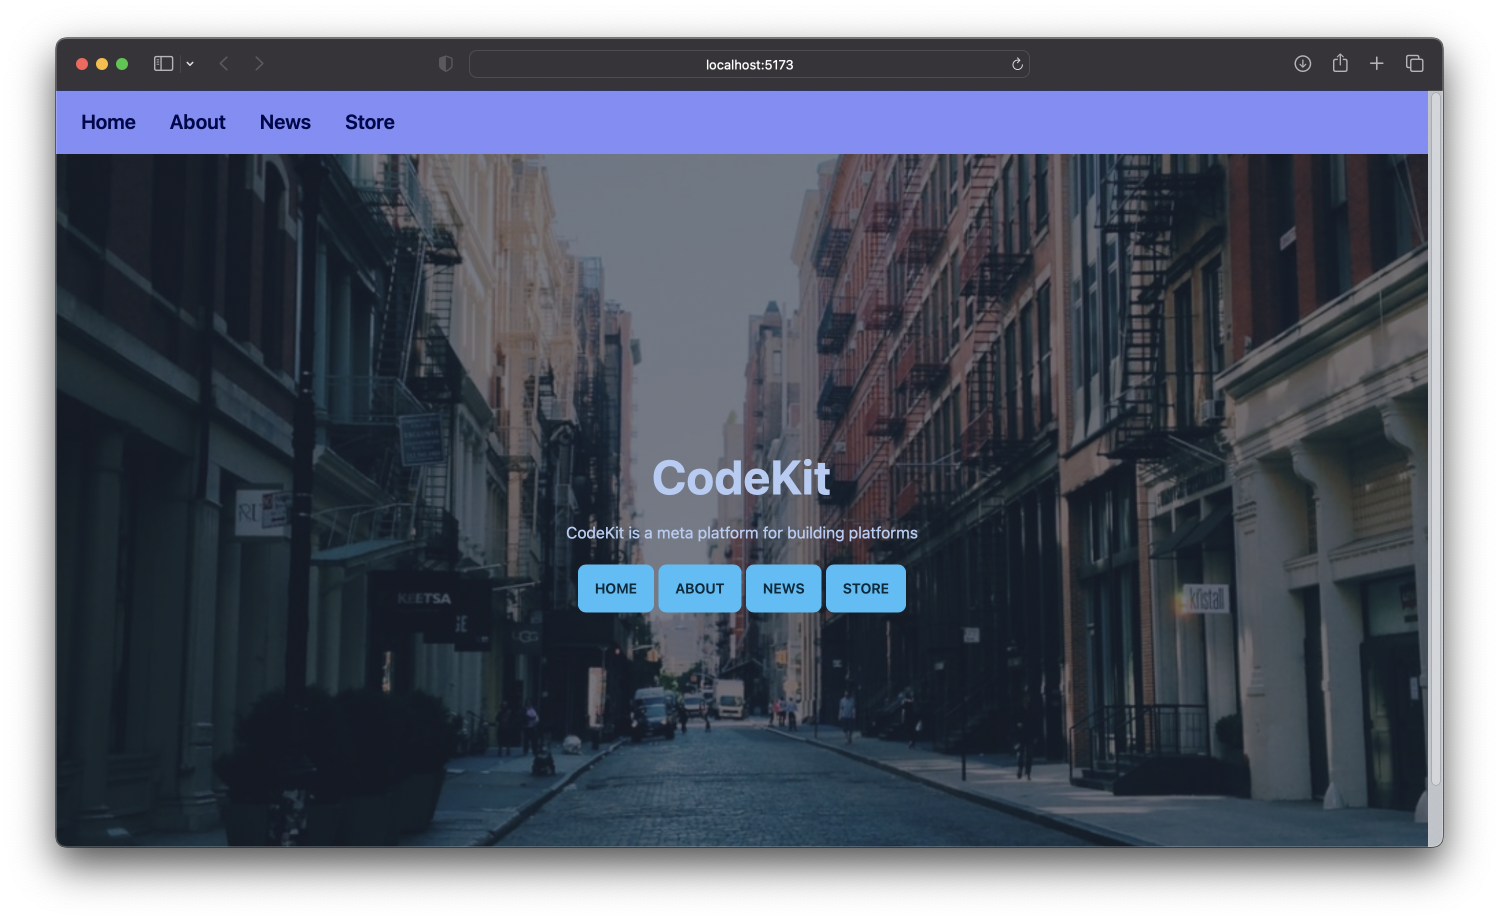
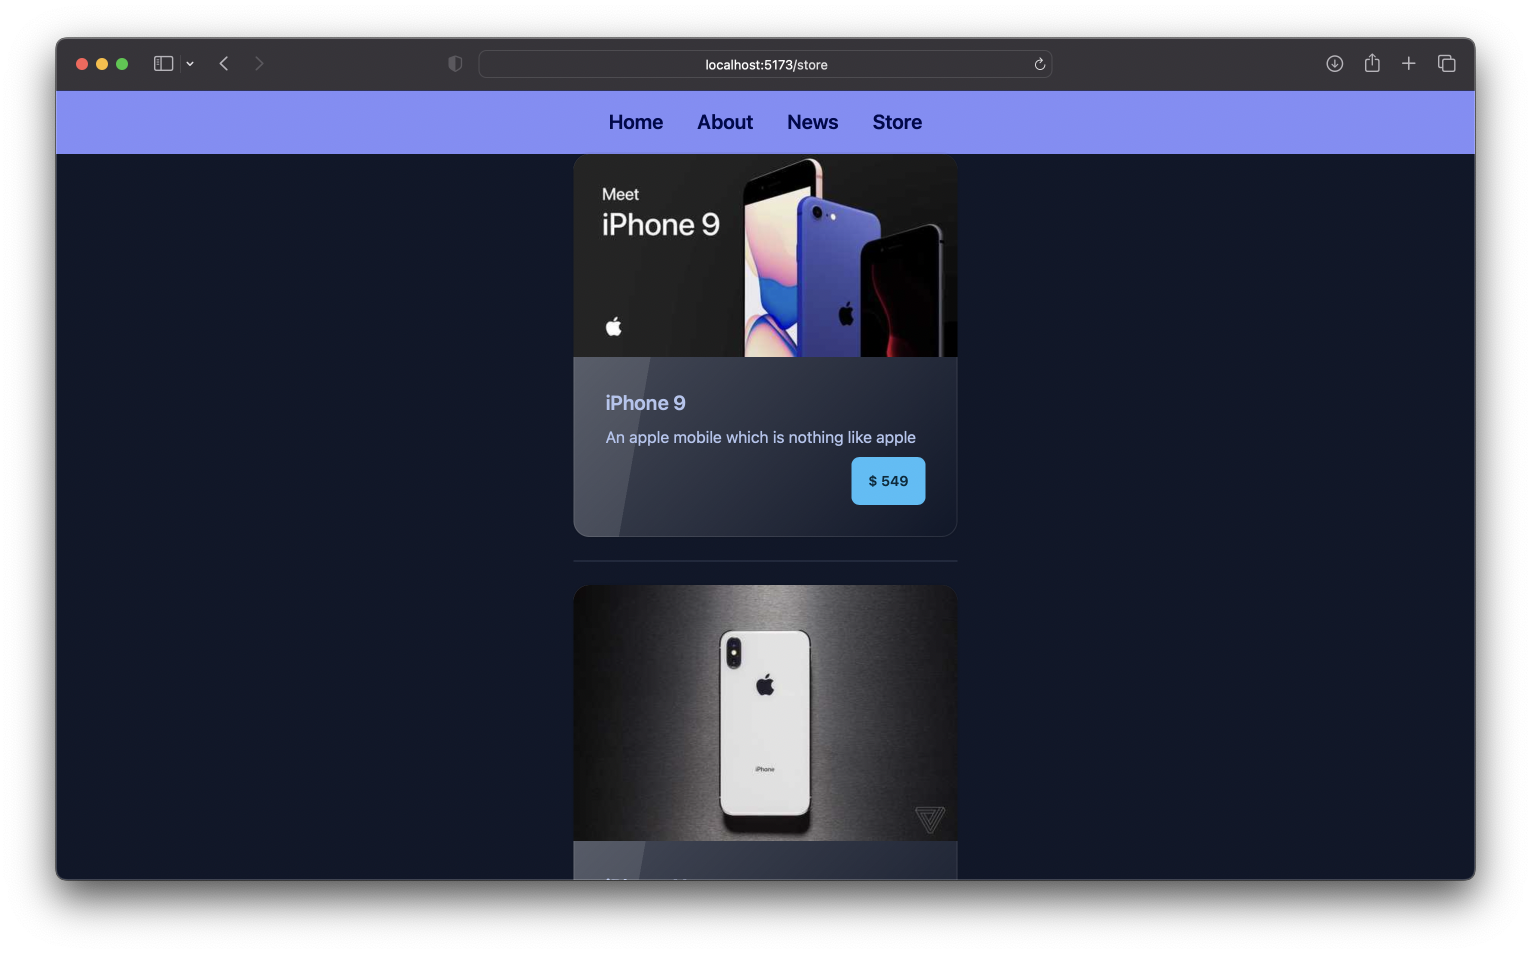
Centered everything in div

diff --git a/codekit/src/routes/about/+page.svelte b/codekit/src/routes/about/+page.svelte
@@ -2,20 +2,24 @@
     export let data;
     const { products } = data;
 </script>
-{#each products as product}
-    <div class="card w-96 bg-base-100 shadow-xl">
-        <figure><img src="{product.thumbnail}" alt="{product.category}" /></figure>
-        <div class="card-body">
-          <h2 class="card-title">
-            {product.title}
-            <div class="badge badge-secondary">{product.price}</div>
-          </h2>
-          <p>{product.description}</p>
-          <div class="card-actions justify-end">
-            <div class="badge badge-outline">{product.brand}</div> 
-            <div class="badge badge-outline">{product.category}</div>
-          </div>
-        </div>
-      </div>
-      <div class="divider"></div> 
-{/each}
+<div class="flex h-screen">
+    <div class="m-auto">
+        {#each products as product}
+            <div class="card w-96 bg-base-100 shadow-xl">
+                <figure><img src="{product.thumbnail}" alt="{product.category}" /></figure>
+                <div class="card-body">
+                <h2 class="card-title">
+                    {product.title}
+                    <div class="badge badge-secondary">{product.price}</div>
+                </h2>
+                <p>{product.description}</p>
+                <div class="card-actions justify-end">
+                    <div class="badge badge-outline">{product.brand}</div> 
+                    <div class="badge badge-outline">{product.category}</div>
+                </div>
+                </div>
+            </div>
+            <div class="divider"></div> 
+        {/each}
+    </div>
+</div>

diff --git a/codekit/src/routes/news/+page.svelte b/codekit/src/routes/news/+page.svelte
@@ -3,17 +3,20 @@
     const { movies } = data
 
 </script>
-
-{#each movies as movie}
-    <div class="card w-96 glass">
-        <figure><img src="https://image.tmdb.org/t/p/original/{movie.poster_path}" alt="car!"/></figure>
-        <div class="card-body">
-          <h2 class="card-title">{movie.title}</h2>
-          <p>{movie.overview}</p>
-          <div class="card-actions justify-end">
-            <button class="btn btn-primary">{movie.vote_count}</button>
-          </div>
-        </div>
+<div class="flex h-screen">
+    <div class="m-auto">
+        {#each movies as movie}
+            <div class="card w-96 glass">
+                <figure><img src="https://image.tmdb.org/t/p/original/{movie.poster_path}" alt="car!"/></figure>
+                <div class="card-body">
+                <h2 class="card-title">{movie.title}</h2>
+                <p>{movie.overview}</p>
+                <div class="card-actions justify-end">
+                    <button class="btn btn-primary">{movie.vote_count}</button>
+                </div>
+                </div>
+            </div>
+            <div class="divider"></div> 
+        {/each}
     </div>
-    <div class="divider"></div> 
-{/each}
+</div>

diff --git a/codekit/src/routes/store/+page.svelte b/codekit/src/routes/store/+page.svelte
@@ -2,16 +2,20 @@
     export let data;
     const { products } = data;
 </script>
-{#each products as product}
-    <div class="card w-96 glass">
-        <figure><img src="{product.thumbnail}" alt="car!"/></figure>
-        <div class="card-body">
-          <h2 class="card-title">{product.title}</h2>
-          <p>{product.description}</p>
-          <div class="card-actions justify-end">
-            <button class="btn btn-primary">$ {product.price}</button>
-          </div>
-        </div>
-      </div>
-    <div class="divider"></div> 
-{/each}
+<div class="flex h-screen">
+    <div class="m-auto">
+        {#each products as product}
+            <div class="card w-96 glass">
+                <figure><img src="{product.thumbnail}" alt="car!"/></figure>
+                <div class="card-body">
+                <h2 class="card-title">{product.title}</h2>
+                <p>{product.description}</p>
+                <div class="card-actions justify-end">
+                    <button class="btn btn-primary">$ {product.price}</button>
+                </div>
+                </div>
+            </div>
+            <div class="divider"></div> 
+        {/each}
+    </div>
+</div>

diff --git a/codekit/src/routes/+layout.svelte b/codekit/src/routes/+layout.svelte
@@ -3,8 +3,8 @@
 </script>
 
 <main>
-	<nav>
-        <div class="navbar bg-secondary text-secondary-content">
+	<nav class="flex w-screen">
+        <div class="navbar bg-secondary text-secondary-content flex-1 flex justify-center mr-auto">
             <a href="/" class="btn btn-ghost normal-case text-xl">Home</a>
             <a href="/about" class="btn btn-ghost normal-case text-xl">About</a>
             <a href="/news" class="btn btn-ghost normal-case text-xl">News</a>

diff --git a/codekit/README.md b/codekit/README.md
@@ -36,3 +36,8 @@ npm run build
 You can preview the production build with `npm run preview`.
 
 > To deploy your app, you may need to install an [adapter](https://kit.svelte.dev/docs/adapters) for your target environment.
+
+
+## Scratch
+
+<div class="hero min-h-screen" style="background-image: url(&quot;https://placeimg.com/1000/800/arch&quot;);"><div class="hero-overlay bg-opacity-60"></div> <div class="hero-content text-center text-neutral-content"><div class="max-w-md"><h1 class="mb-5 text-5xl font-bold">CodeKit</h1> <p class="mb-5">CodeKit is a meta platform for building platforms</p> <a href="/"><button class="btn btn-primary">Home</button></a> <a href="/about"><button class="btn btn-primary">About</button></a> <a href="/news" data-sveltekit-prefetch=""><button class="btn btn-primary">News</button></a> <a href="/store" data-sveltekit-prefetch=""><button class="btn btn-primary">Store</button></a></div></div></div>
